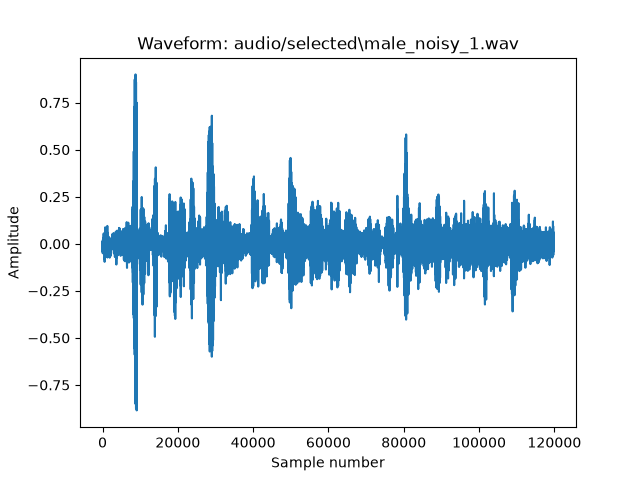
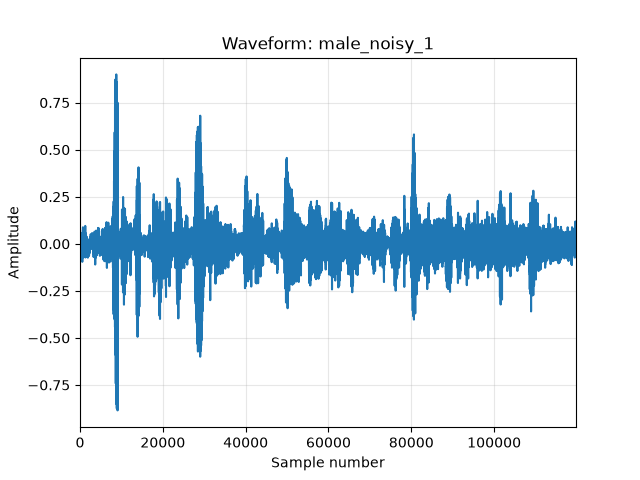
fixed the axis for the plots

diff --git a/task3.py b/task3.py
@@ -33,7 +33,9 @@ def process_sound(path):
 
     plt.figure()
     plt.plot(x)
-    plt.title(f"Waveform: {path}")
+    plt.xlim(0, len(x))
+    plt.grid(alpha=0.3)
+    plt.title(f"Waveform: {name}")
     plt.xlabel("Sample number")
     plt.ylabel("Amplitude")
     plt.savefig(os.path.join(WAVEFORM_DIR, f"{name}_waveform.png"))
@@ -53,9 +55,12 @@ def cosine_1khz(name, n):
 
     two = t <= TWO_MS
     plt.figure()
-    plt.plot(t[two], y[two])
+    plt.plot(t[two] * 1000, y[two])
+    plt.xlim(0, TWO_MS * 1000)
+    plt.xticks(np.arange(0, 2.25, 0.25))
+    plt.grid(alpha=0.3)
     plt.title("1 kHz cosine (two cycles)")
-    plt.xlabel("Time (s)")
+    plt.xlabel("Time (ms)")
     plt.ylabel("Amplitude")
     plt.savefig(os.path.join(COSINE_DIR, f"{name}_cosine_1khz.png"))
 
